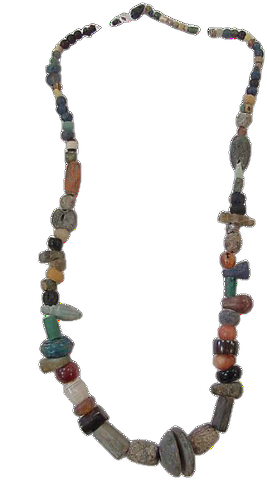
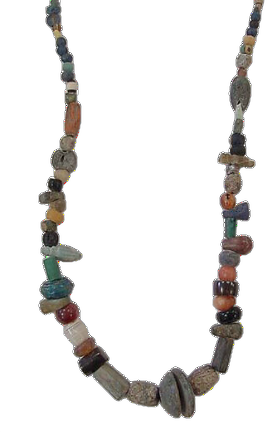
Place the Persian necklace on the neck and trim its top beads

Changed region(s): [[0.1199, 0.0, 1.0, 0.9931]]

diff --git a/src/clothes.js b/src/clothes.js
@@ -33,7 +33,7 @@ export const CLOTHES = [
   { id: 'necklace-costa-rican', title: 'Necklace', date: '500 BCE–900 CE', culture: 'Indigenous American (Costa Rican)', group: 'Indigenous Costa Rican', region: 'Americas', year: 200, medium: 'jade', slot: 'neck', fit: { top: 17, h: 20, cx: 50 }, url: met(141757) },
   { id: 'banyan-chinese', title: 'Banyan', date: '1760–70', culture: 'Chinese', group: 'Chinese', region: 'Asia', year: 1765, medium: 'silk, linen', slot: 'outer', url: met(139667) },
   { id: 'eyeglasses-japanese', title: 'Eyeglasses', date: '1930–59', culture: 'Japanese', group: 'Japanese', region: 'Asia', year: 1945, medium: 'plastic, metal, glass', slot: 'eyewear', url: met(104739) },
-  { id: 'necklace-persian', title: 'Necklace', date: '12th century BCE–CE 20th century', culture: 'Persian', group: 'Persian', region: 'Asia', year: 500, medium: 'stone, glass', slot: 'neck', url: met(141680) },
+  { id: 'necklace-persian', title: 'Necklace', date: '12th century BCE–CE 20th century', culture: 'Persian', group: 'Persian', region: 'Asia', year: 500, medium: 'stone, glass', slot: 'neck', fit: { top: 15, h: 20, cx: 50 }, url: met(141680) },
   { id: 'coat-british', title: 'Coat', date: '1630–40', culture: 'British', group: 'British', region: 'Europe', year: 1635, medium: 'leather', slot: 'outer', fit: { top: 18, h: 46, cx: 51 }, url: met(81556) },
   { id: 'trousers-american', title: 'Trousers', date: '1800–1830', culture: 'American', group: 'American', region: 'Americas', year: 1815, medium: 'cotton, linen', slot: 'bottom', fit: { top: 44, h: 54, cx: 49.5, scaleX: 0.85 }, url: met(911443) },
   { id: 'hakama-japanese', title: 'Trousers ("hakama") associated with Kyogen', date: 'late 19th century', culture: 'Japan', group: 'Japanese', region: 'Asia', year: 1875, medium: 'hemp', slot: 'bottom', fit: { top: 44, h: 68 }, url: met(44633) },
